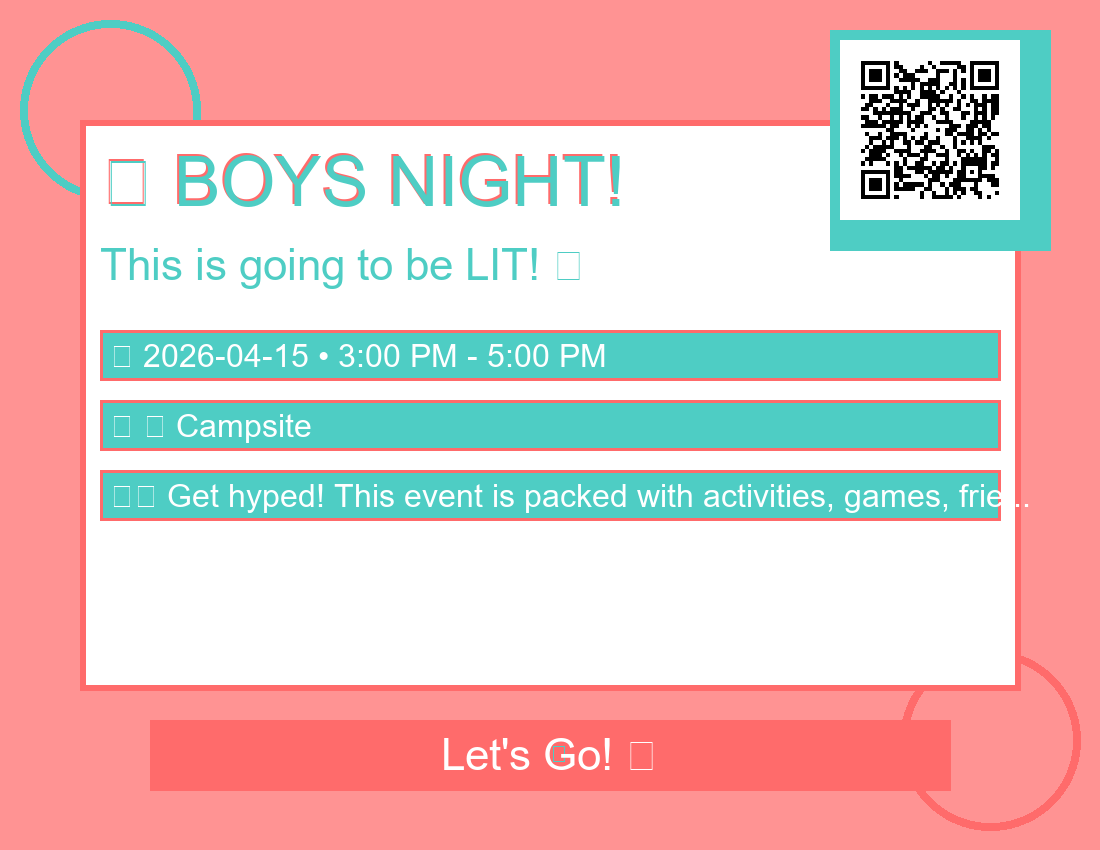
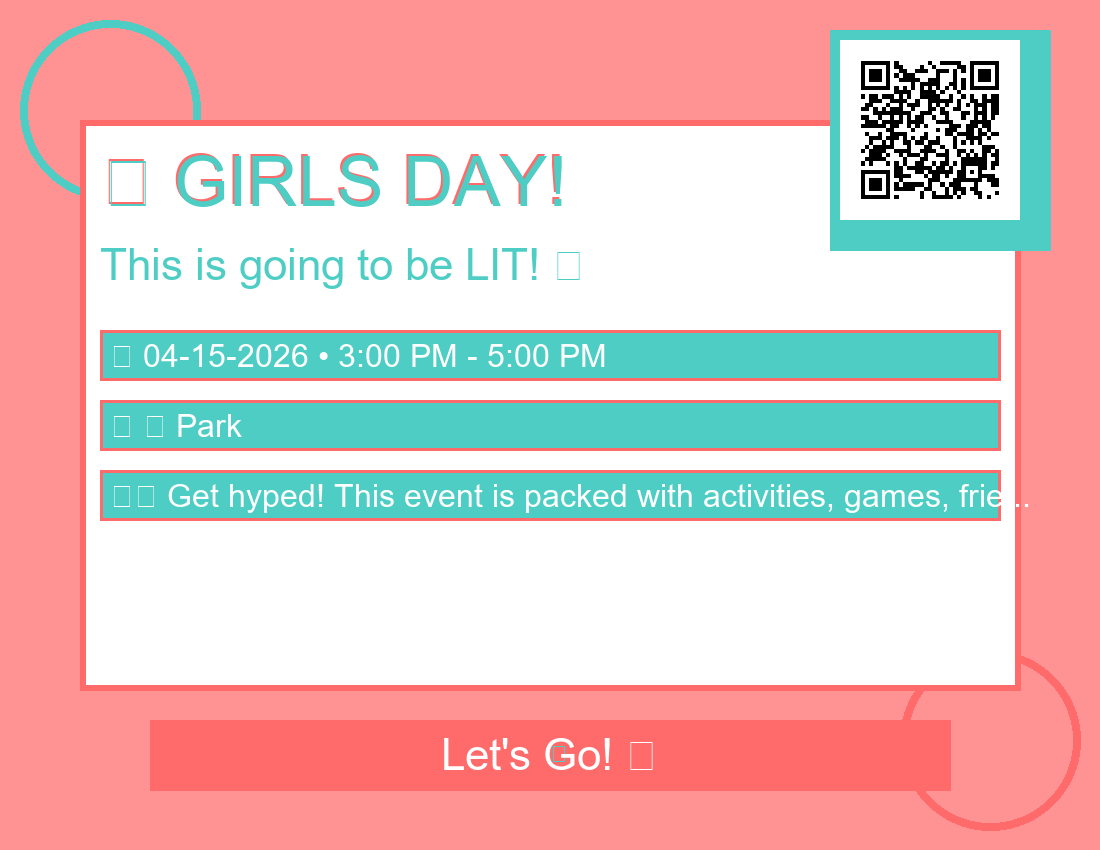
girls day test

Changed region(s): [[0.1545, 0.1835, 0.5873, 0.2447], [0.1236, 0.3976, 0.2782, 0.4282], [0.1545, 0.4894, 0.2782, 0.52]]

diff --git a/python-langchain/app_copy_2.py b/python-langchain/app_copy_2.py
@@ -55,6 +55,64 @@ def print_banner(text: str, symbol: str = "="):
     print(f"{symbol*10} {text.center(40)} {symbol*10}")
     print(line)
 
+def format_event_date(date_str: str) -> str:
+    """
+    Convert event date to MM-DD-YYYY format.
+    
+    Handles multiple input formats:
+    - 2026-04-15 (ISO format)
+    - April 15, 2026 (text format)
+    - 04-15-2026 (already correct)
+    - 4/15/2026 (slash format)
+    
+    Args:
+        date_str: Date string in various formats
+    
+    Returns:
+        Date string in MM-DD-YYYY format
+    """
+    if not date_str or date_str == "TBD":
+        return "TBD"
+    
+    date_str = date_str.strip()
+    
+    try:
+        # Try parsing ISO format (2026-04-15)
+        if '-' in date_str and len(date_str) == 10:
+            parts = date_str.split('-')
+            if len(parts) == 3 and parts[0].isdigit() and len(parts[0]) == 4:
+                # YYYY-MM-DD format
+                year, month, day = parts
+                return f"{month.zfill(2)}-{day.zfill(2)}-{year}"
+            elif len(parts) == 3 and parts[2].isdigit() and len(parts[2]) == 4:
+                # MM-DD-YYYY or DD-MM-YYYY format - check if already correct
+                month, day, year = parts
+                if int(month) <= 12:  # Assume MM-DD-YYYY
+                    return f"{month.zfill(2)}-{day.zfill(2)}-{year}"
+                else:  # DD-MM-YYYY
+                    return f"{day.zfill(2)}-{month.zfill(2)}-{year}"
+        
+        # Try parsing slash format (4/15/2026 or 04/15/2026)
+        if '/' in date_str:
+            parts = date_str.split('/')
+            if len(parts) == 3:
+                if len(parts[2]) == 4:  # MM/DD/YYYY format
+                    month, day, year = parts
+                else:  # YYYY/MM/DD format
+                    year, month, day = parts
+                return f"{month.zfill(2)}-{day.zfill(2)}-{year}"
+        
+        # Try parsing text format (April 15, 2026)
+        if ',' in date_str:
+            from datetime import datetime as dt
+            parsed = dt.strptime(date_str, "%B %d, %Y")
+            return parsed.strftime("%m-%d-%Y")
+        
+    except Exception as e:
+        print(f"⚠ Could not parse date '{date_str}': {e}")
+    
+    return date_str
+
 
 def generate_standardized_form(event_details: Dict) -> dict:
     """
@@ -71,12 +129,15 @@ def generate_standardized_form(event_details: Dict) -> dict:
     """
     event_name = event_details.get("event_name", "Youth Event")
     
+    # Format the date to MM-DD-YYYY
+    formatted_date = format_event_date(event_details.get("event_date", "TBD"))
+    
     return {
         "title": f"{event_name} Registration Form",
         "description": f"Register for {event_name}. Please provide all required information.",
         "event_details": {
             "event_name": event_name,
-            "date": event_details.get("event_date", "TBD"),
+            "date": formatted_date,
             "time": event_details.get("event_time", "TBD"),
             "location": event_details.get("location", "TBD"),
             "max_participants": event_details.get("max_participants", 30),
@@ -1175,6 +1236,10 @@ def design_flyer_variations(event_details: dict, event_name: str = "Youth Event"
         - "descriptions": Brief description of each design's style and vibe
     """
     
+    # Format the date for flyer display
+    formatted_date = format_event_date(event_details.get('event_date', 'Coming Soon'))
+    date_time_line = formatted_date + " • " + event_details.get('event_time', 'TBA')
+    
     design_variations = [
         {
             "name": "Modern Clean",
@@ -1182,7 +1247,7 @@ def design_flyer_variations(event_details: dict, event_name: str = "Youth Event"
             "design_style": "modern",
             "headline": f"🎯 {event_details.get('event_name', event_name)}",
             "subheadline": "Get ready for an amazing experience!",
-            "date_time_line": event_details.get('event_date', 'Coming Soon') + " • " + event_details.get('event_time', 'TBA'),
+            "date_time_line": date_time_line,
             "location_line": event_details.get('location', 'Location TBA'),
             "body_blurb": "Join us for an incredible event featuring fun, friends, and unforgettable memories. Perfect for ages 12-18!",
             "call_to_action": "Register Now!",
@@ -1194,7 +1259,7 @@ def design_flyer_variations(event_details: dict, event_name: str = "Youth Event"
             "design_style": "retro",
             "headline": f"🎉 {event_details.get('event_name', event_name).upper()}!",
             "subheadline": "This is going to be LIT! ✨",
-            "date_time_line": event_details.get('event_date', 'Coming Soon') + " • " + event_details.get('event_time', 'TBA'),
+            "date_time_line": date_time_line,
             "location_line": f"📍 {event_details.get('location', 'Location TBA')}",
             "body_blurb": "Get hyped! This event is packed with activities, games, friends, and good vibes. You don't want to miss this!",
             "call_to_action": "Let's Go! 🚀",
@@ -1206,7 +1271,7 @@ def design_flyer_variations(event_details: dict, event_name: str = "Youth Event"
             "design_style": "sporty",
             "headline": f"⚡ {event_details.get('event_name', event_name)}",
             "subheadline": "Game On!",
-            "date_time_line": event_details.get('event_date', 'Coming Soon') + " • " + event_details.get('event_time', 'TBA'),
+            "date_time_line": date_time_line,
             "location_line": f"🏟 {event_details.get('location', 'Location TBA')}",
             "body_blurb": f"Ready to bring your A-game? Join us for {event_details.get('event_name', 'this event')} and show what you've got!",
             "call_to_action": "Sign Me Up! 🏆",
@@ -1218,7 +1283,7 @@ def design_flyer_variations(event_details: dict, event_name: str = "Youth Event"
             "design_style": "minimalist",
             "headline": f"{event_details.get('event_name', event_name)}",
             "subheadline": "Be there.",
-            "date_time_line": event_details.get('event_date', 'Coming Soon') + " / " + event_details.get('event_time', 'TBA'),
+            "date_time_line": date_time_line,
             "location_line": event_details.get('location', 'Location TBA'),
             "body_blurb": "An unforgettable experience awaits. Simple. Elegant. Powerful.",
             "call_to_action": "Join Us",
@@ -1230,7 +1295,7 @@ def design_flyer_variations(event_details: dict, event_name: str = "Youth Event"
             "design_style": "festival",
             "headline": f"🎪 {event_details.get('event_name', event_name)} 🎪",
             "subheadline": "The Event of the Year!",
-            "date_time_line": f"📅 {event_details.get('event_date', 'Coming Soon')} at {event_details.get('event_time', 'TBA')}",
+            "date_time_line": f"📅 {date_time_line}",
             "location_line": f"🎟 {event_details.get('location', 'Location TBA')}",
             "body_blurb": "Music, games, food, friends, and NON-STOP FUN! This is the event everyone will be talking about!",
             "call_to_action": "Get Your Ticket! 🎟",
